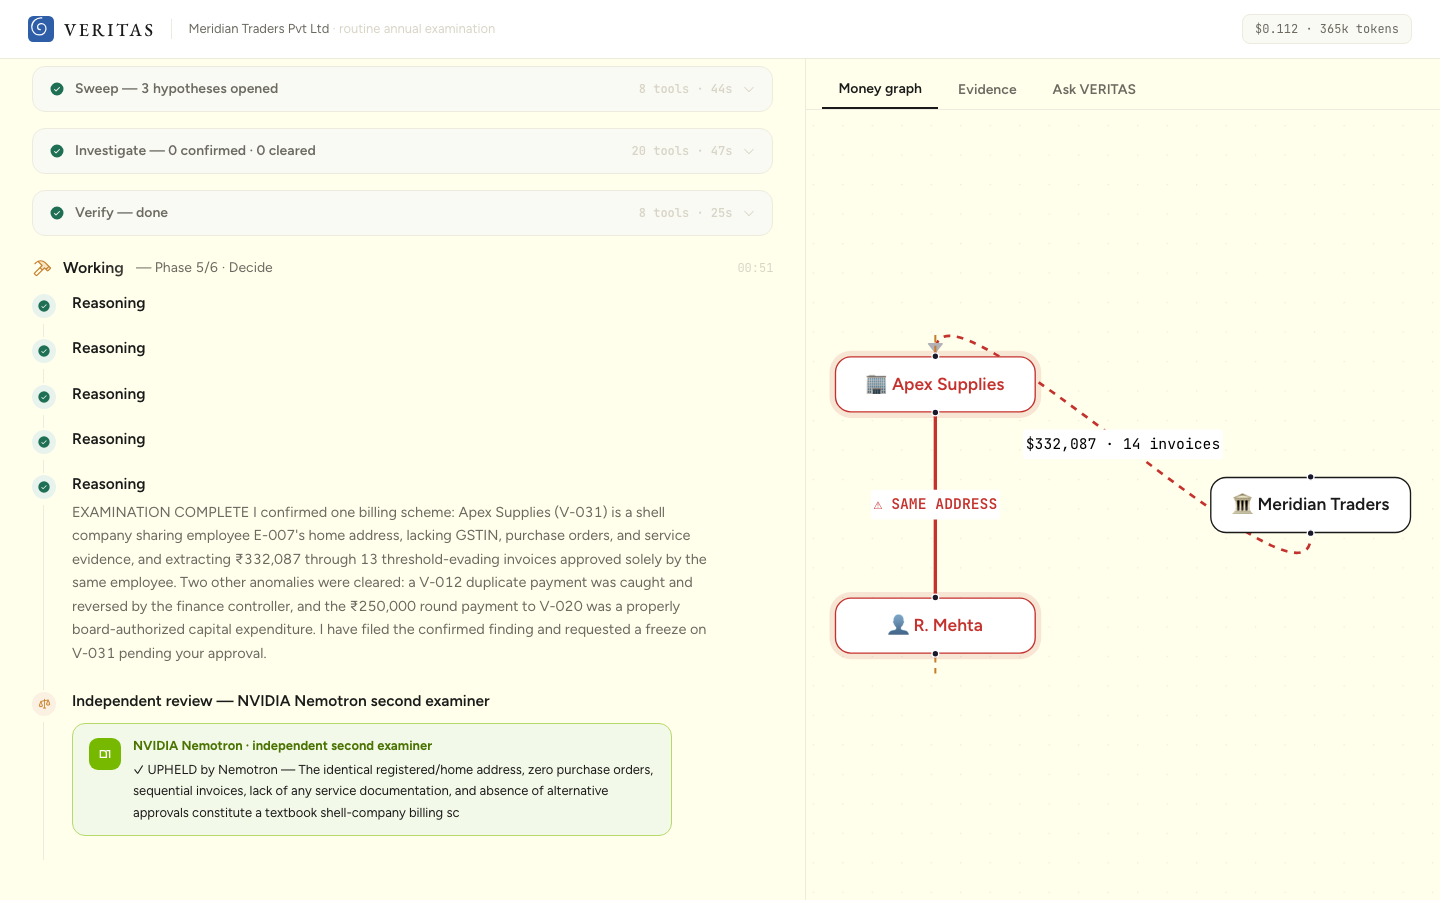
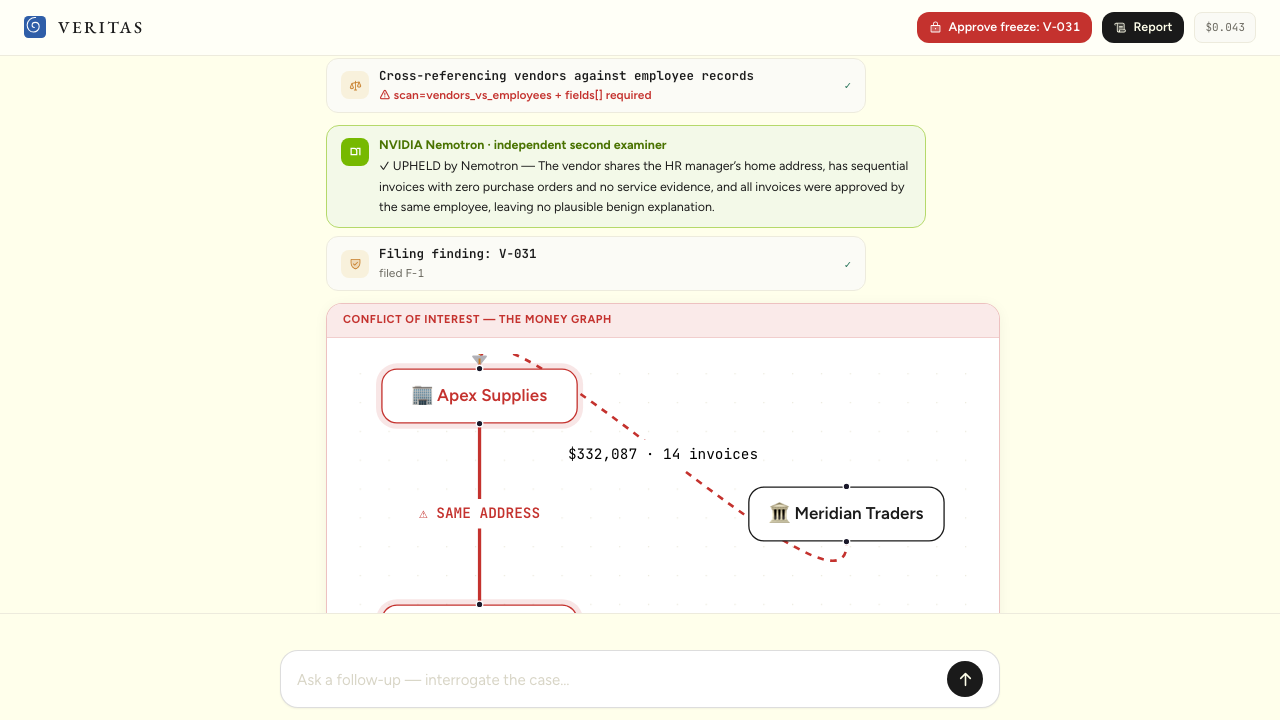
demo: chat-UI fixture + screenshots + verified 10/10 on Vultr-native stack
- Re-recorded demo showing the full chat conversation: deterministic sweeps,
  the VultronRetriever card surfacing the smoking-gun pages (HR-E-007, V-031-REG),
  the crimson money graph, the NVIDIA Nemotron UPHELD card, the cited verdict,
  and live interrogation — all in one thread.
- New chat-UI screenshots (verdict, interrogation, Nemotron, VultronRetriever);
  removed the old console screenshots.
- Eval fleet re-verified on the shipped Vultr-native config: 10/10, 0 false
  accusations, 0 hard fails (company-5 restored by the matched-unless-cleared
  materialization).

diff --git a/README.md b/README.md
@@ -81,6 +81,12 @@ BACKEND              →  Vultr Cloud Compute VM  (Hono SSE engine) — see DEPL
 VultronRetriever ships in three sizes; VERITAS uses **Core** for the routine reranks and
 **Prime** for the decisive question, matching model cost to the moment.
 
+<div align="center">
+<img src="assets/screenshots/07-vultron.png" width="820" alt="VultronRetriever surfaces the vendor registration and employee record that share an address — inside the chat" />
+<br/>
+<sub>VultronRetriever reads 40 candidate pages and surfaces the employee record and vendor registration that share the address — the query words never appear on them.</sub>
+</div>
+
 ## Why it can't hallucinate
 
 This is the core engineering claim, and it's structural, not aspirational:
@@ -94,7 +100,7 @@ This is the core engineering claim, and it's structural, not aspirational:
   "no material findings." It does not cry wolf.
 
 Result on a 10-company evaluation fleet (8 with planted schemes, 2 clean):
-**10/10 correct verdicts, 0 false accusations.**
+**10/10 correct verdicts, 0 false accusations** (verified on the shipped Vultr-native stack).
 
 ## The independent verifier
 